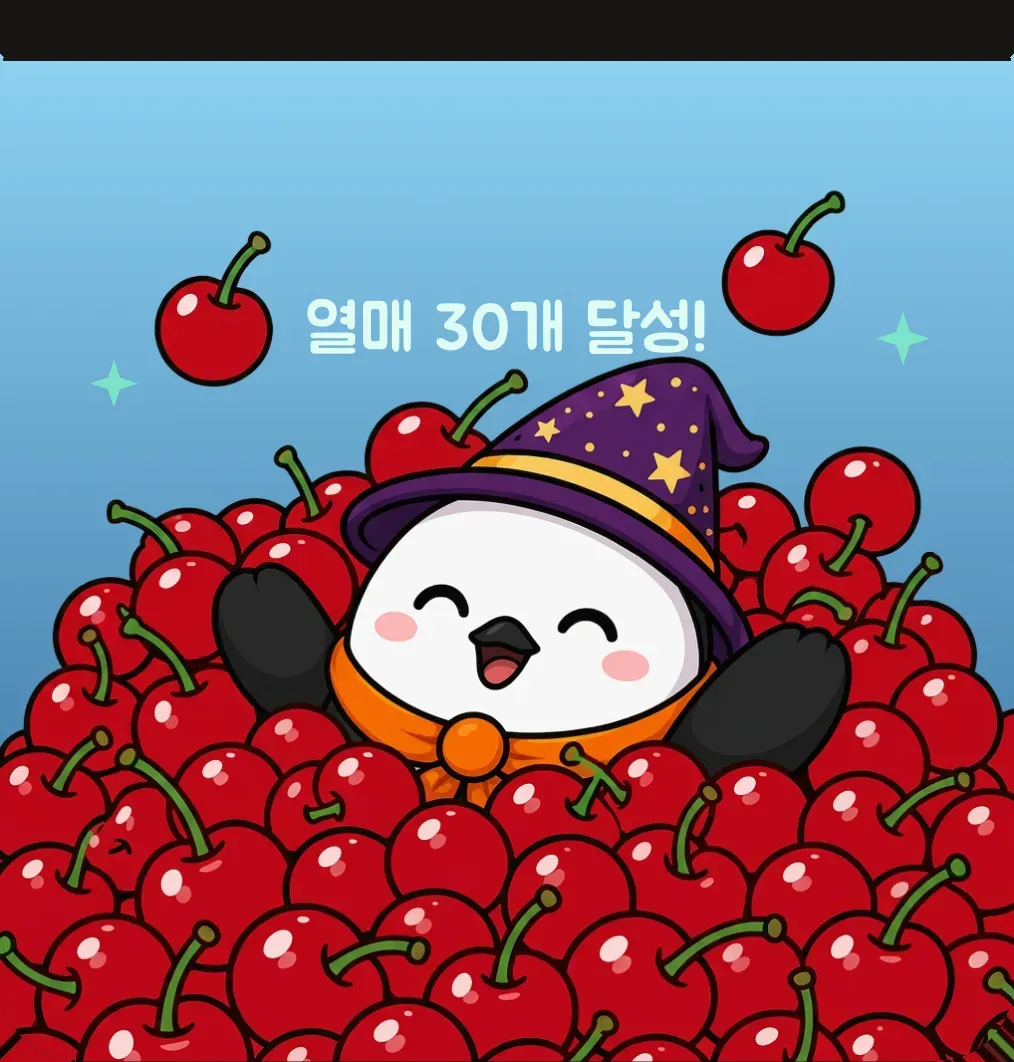
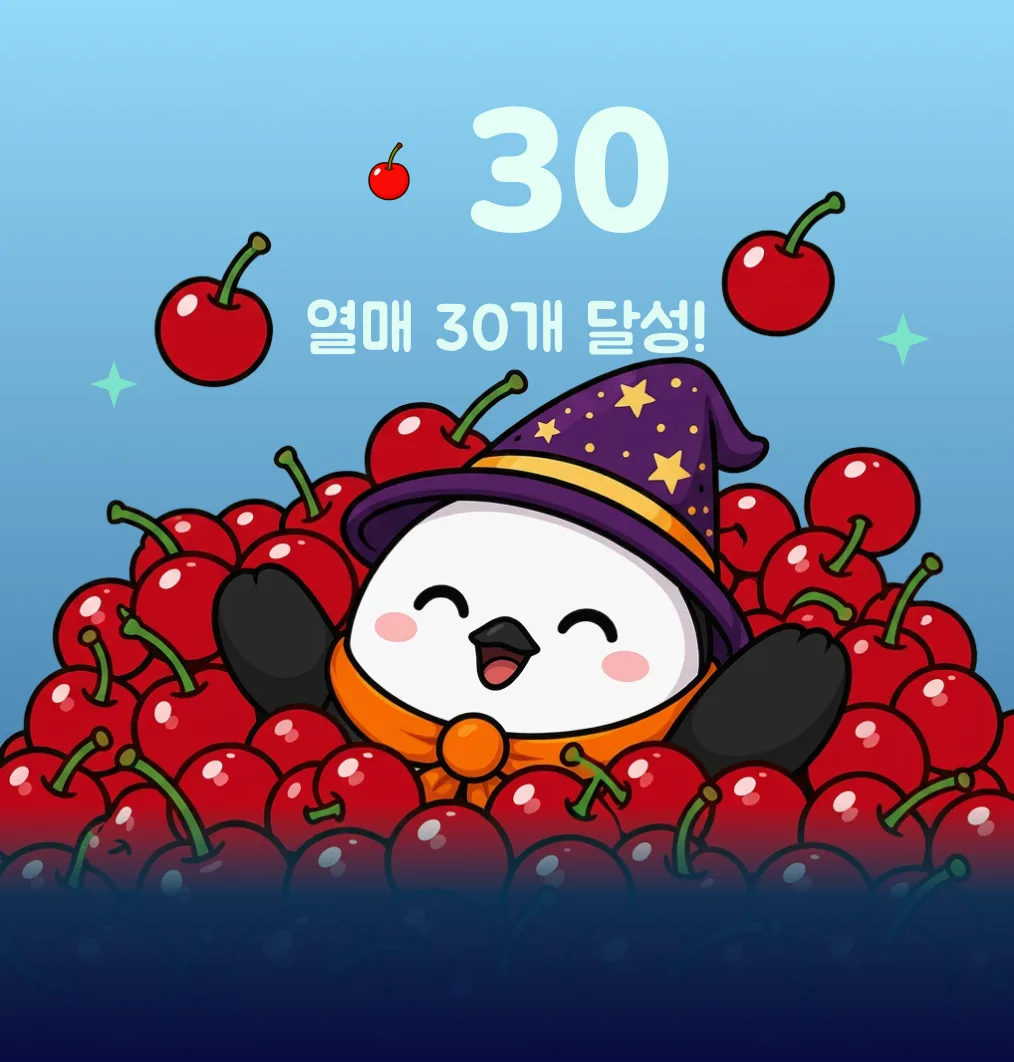
fix(mobile): 열매 30개 달성 Large 위젯 그림을 피그마 원본으로 교체한다
- 기존 그림은 위쪽에 검은 띠가 찍혀 있고 상단 "30" 숫자가 빠져 있었다
- 피그마 위젯 Final 보드의 Large · milestone 프레임을 주간 스트립만 숨겨 3배로 다시 내보냈다
- 이미 복사된 옛 그림을 바꾸도록 WIDGET_ART_VERSION을 12로 올린다

diff --git a/apps/mobile/src/widgets/art/widget-art.ts b/apps/mobile/src/widgets/art/widget-art.ts
@@ -1,6 +1,6 @@
 // 위젯 아트 매니페스트 — 상태×사이즈별 webp를 정적 require로 묶는다
 // 생성 파일: scripts/generate-widget-art.mjs 로 다시 만든다 (아트 원본 = 피그마 "🧩 위젯 Final" 보드)
-export const WIDGET_ART_VERSION = 11;
+export const WIDGET_ART_VERSION = 12;
 
 export const WIDGET_ART: Record<string, number> = {
   'arrived-large': require('../../../assets/widgets/arrived-large.webp'),
